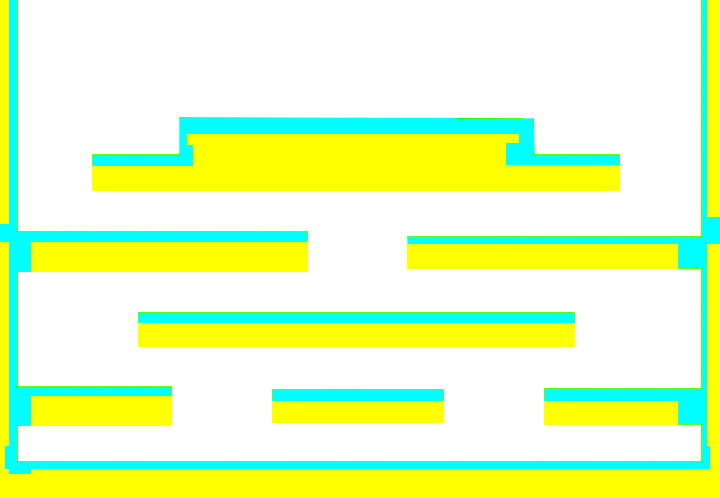
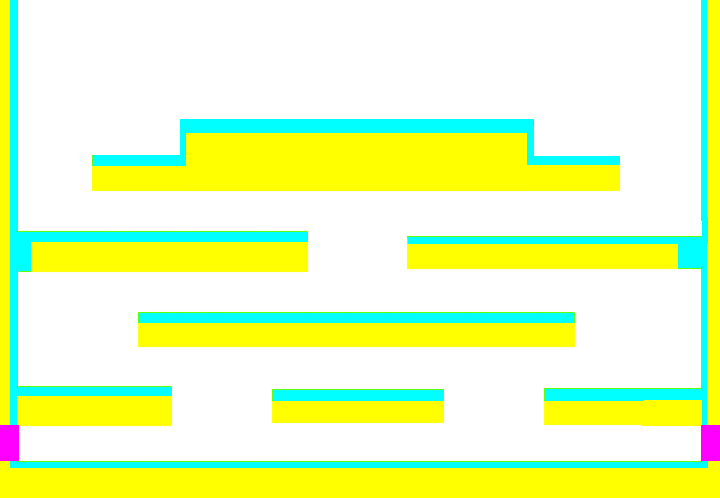
#Map에 magenta 구역 만듬

diff --git a/SnowBros/Play_Monster.h b/SnowBros/Play_Monster.h
@@ -129,6 +129,7 @@ private:
 	void MonsterGravityVector(float _DeltaTime);
 
 	void SnowBallMoveVector(float _DeltaTime);
+	void MonsterDeath(float _Deltatime);
 
 	void MonsterGroundUp(float _DeltaTime);
 };
